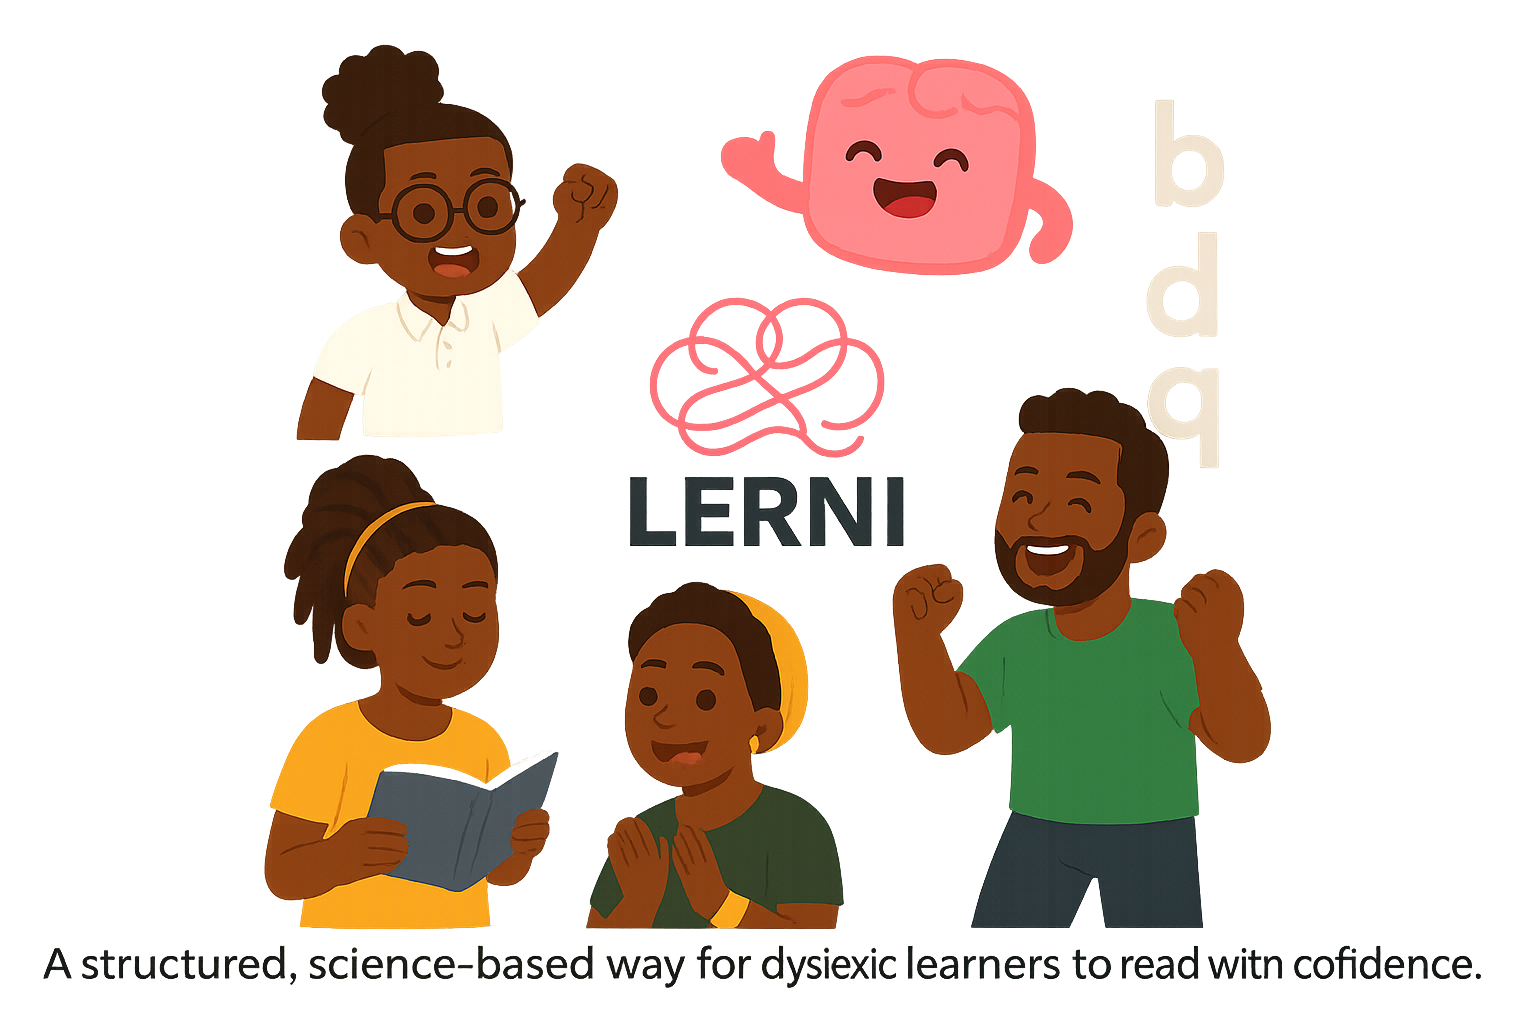
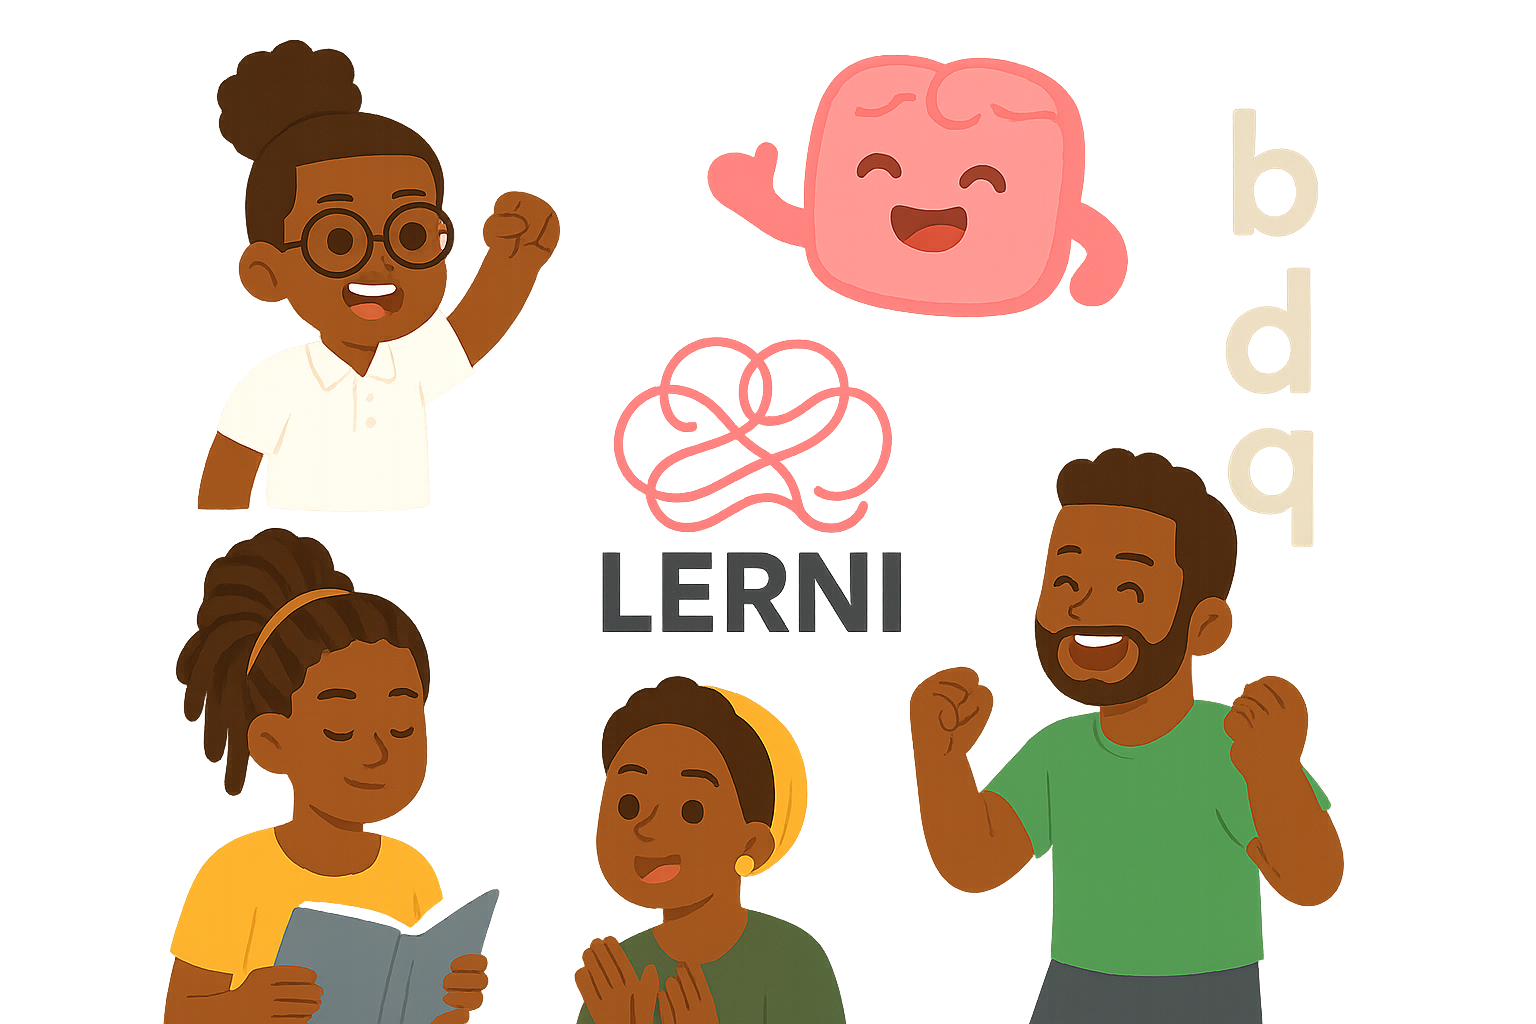
Update hero section and tagline

diff --git a/src/components/Hero.tsx b/src/components/Hero.tsx
@@ -8,18 +8,18 @@ const Hero = () => {
         {/* Hero Image - Left Side */}
         <div className="order-2 flex justify-center lg:order-1 lg:justify-start">
           <div className="w-full max-w-[500px]">
-            <img
-              src={heroImage}
-              alt="Lerni - A structured, science-based way for dyslexic learners to read with confidence"
-              className="w-full"
-            />
+          <img
+            src={heroImage}
+            alt="Lerni - Learning platform showing diverse learners celebrating their achievements"
+            className="w-full"
+          />
           </div>
         </div>
         
         {/* Text Content - Right Side */}
         <div className="order-1 flex flex-col items-center space-y-10 lg:order-2 lg:items-start">
           <h1 className="max-w-xl text-center text-3xl font-bold leading-tight text-foreground md:text-4xl lg:text-left lg:text-5xl">
-            The free, fun, and effective way to learn—designed for every mind!
+            Because every mind learns differently—and every win matters.
           </h1>
           
           <div className="flex w-full max-w-md flex-col gap-4">
